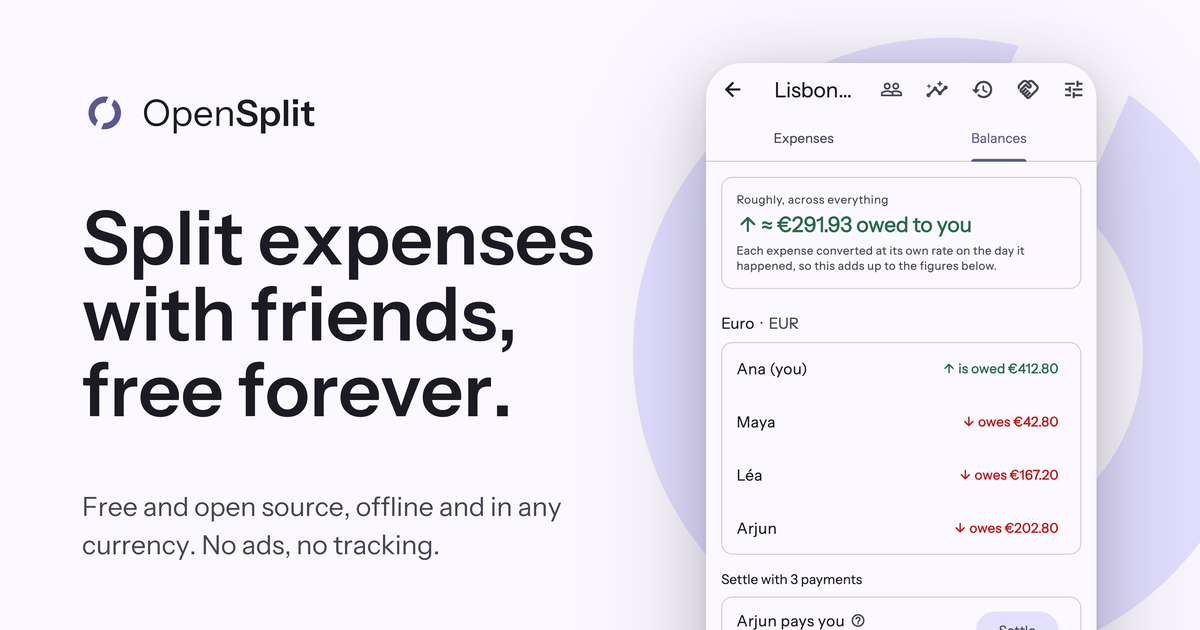
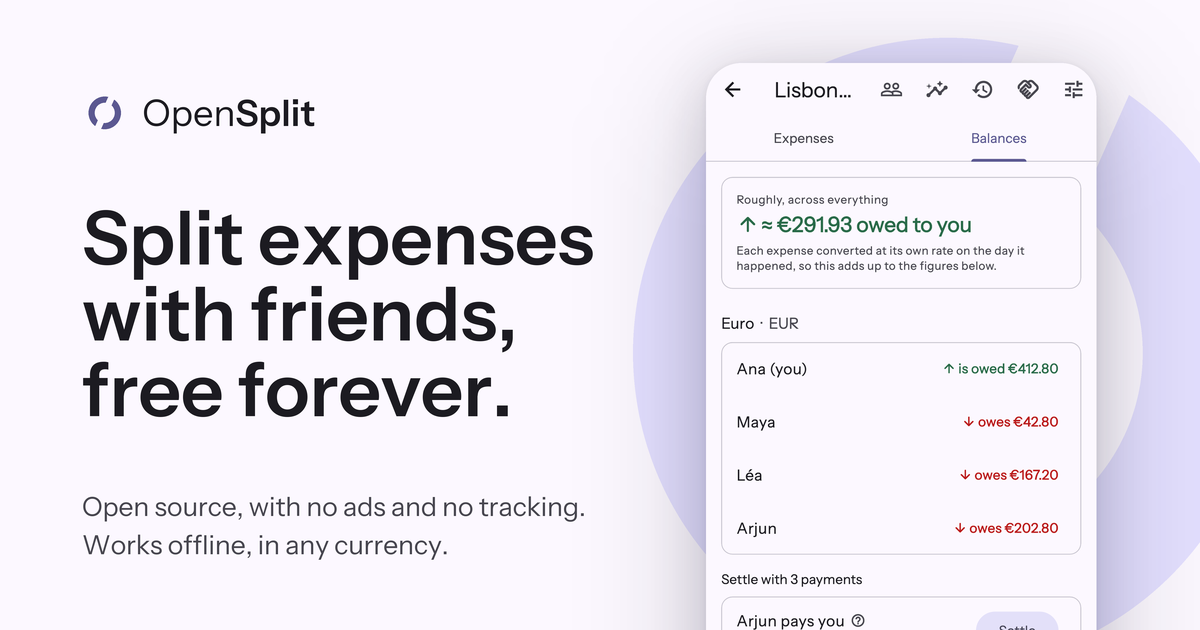
Say free, open source and no ads, without hedging
The principles carried a clause about charging for convenience "if
monetisation ever happens", and the landing page repeated it in the FAQ
and as a promise ("Paying might one day make something easier"). It read
as a plan to charge. OpenSplit is free, so the clause is gone and the
first principle says so outright: every feature, for everyone, forever.

Open source moves up to second and no ads to third, and both lead the
hero. The AGPL was described as "nobody can take the code", which is the
opposite of what it does: anyone can read, use, change and share it, and
what is built from it stays open. The landing page, PRINCIPLES.md, the
About and Settings screens and the terms now all say that. The terms'
"you are free to run your own" went with it, since it pointed at a
self-hosted server that does not exist.

The metadata, the manifest and the link preview follow, and the
architecture doc's reference to the leaving-with-everything principle
moves from #6 to #5.

Claude-Session: https://claude.ai/code/session_01Dr4xGagtWRkvz2i6gQdUsX

Changed region(s): [[0.0617, 0.7841, 0.4933, 0.9048]]

diff --git a/site/index.html b/site/index.html
@@ -15,7 +15,7 @@
     <meta charset="utf-8">
     <meta name="viewport" content="width=device-width, initial-scale=1">
     <title>OpenSplit · Free, open-source expense splitting</title>
-    <meta name="description" content="Split expenses with friends, flatmates and travel groups. OpenSplit is free and open source, works offline and in any currency, and never limits how many expenses you add. No ads, no tracking.">
+    <meta name="description" content="Split expenses with friends, flatmates and travel groups. OpenSplit is free and open source, with no ads and no limits, and works offline in any currency.">
     <link rel="canonical" href="https://opensplit.eigeninteractive.com/">
     <meta name="robots" content="index, follow">
     <meta name="google-site-verification" content="V8-KlfJsiOA_o2iDiaz0fDFYswSP1rm4F7X66q8WwnM">
@@ -24,7 +24,7 @@
     <meta property="og:site_name" content="OpenSplit">
     <meta property="og:locale" content="en">
     <meta property="og:title" content="OpenSplit · Free, open-source expense splitting">
-    <meta property="og:description" content="Split expenses with friends, free forever. Works offline, in any currency, with no ads and no tracking. The code is public.">
+    <meta property="og:description" content="Split expenses with friends, free forever. Open source, with no ads and no tracking. Works offline, in any currency.">
     <meta property="og:url" content="https://opensplit.eigeninteractive.com/">
     <meta property="og:image" content="https://opensplit.eigeninteractive.com/store/og-card.png">
     <meta property="og:image:type" content="image/png">
@@ -33,7 +33,7 @@
     <meta property="og:image:alt" content="OpenSplit: split expenses with friends, free forever. Beside it, the app showing a trip's balances.">
     <meta name="twitter:card" content="summary_large_image">
     <meta name="twitter:title" content="OpenSplit · Free, open-source expense splitting">
-    <meta name="twitter:description" content="Split expenses with friends, free forever. Works offline, in any currency, with no ads and no tracking.">
+    <meta name="twitter:description" content="Split expenses with friends, free forever. Open source, with no ads and no tracking. Works offline, in any currency.">
     <meta name="twitter:image" content="https://opensplit.eigeninteractive.com/store/og-card.png">
     <meta name="twitter:image:alt" content="OpenSplit: split expenses with friends, free forever. Beside it, the app showing a trip's balances.">
     <link rel="icon" type="image/svg+xml" href="/favicon.svg">
@@ -49,7 +49,7 @@
   "name": "OpenSplit",
   "applicationCategory": "FinanceApplication",
   "operatingSystem": "Android, Web",
-  "description": "Free, open-source expense splitting for friends, flatmates and trips. Works offline and in any currency.",
+  "description": "Free, open-source expense splitting for friends, flatmates and trips, with no ads. Works offline and in any currency.",
   "url": "https://opensplit.eigeninteractive.com/",
   "downloadUrl": "https://play.google.com/store/apps/details?id=com.eigeninteractive.opensplit",
   "license": "https://www.gnu.org/licenses/agpl-3.0.html",
@@ -67,7 +67,7 @@
       "name": "Is it really free?",
       "acceptedAnswer": {
         "@type": "Answer",
-        "text": "Yes. Adding an expense is never limited, and there are no ads. If OpenSplit ever charges for anything, it will be for convenience, like a hosted extra, and never for something the app does today."
+        "text": "Yes: every feature, for everyone, for good. There are no ads, no premium tier and no limit on how many expenses you add, and because the code is open source, you can check."
       }
     },
     {
@@ -83,7 +83,7 @@
       "name": "Who makes OpenSplit?",
       "acceptedAnswer": {
         "@type": "Answer",
-        "text": "EigenInteractive, without venture funding and in the open. The source is on GitHub under the AGPL-3.0, and bug reports and ideas are welcome there."
+        "text": "EigenInteractive, without venture funding and in the open. The code is on GitHub under the AGPL-3.0, for anyone to read, use and build on, and bug reports and ideas are welcome there."
       }
     }
   ]
@@ -565,14 +565,14 @@
         <div class="wrap hero-grid">
           <div class="hero-copy">
             <h1>Split expenses with friends, free forever.</h1>
-            <p class="hero-lede">OpenSplit keeps track of who paid, who owes whom and how to settle up, in any currency and with or without a signal. It's open source, it has no ads, and it never limits how many expenses you add.</p>
+            <p class="hero-lede">Open source, no ads, and every feature free for everyone. OpenSplit keeps track of who paid, who owes whom and how to settle up, in any currency and with or without a signal.</p>
             <div class="hero-actions">
               <a class="button button-filled" href="https://play.google.com/store/apps/details?id=com.eigeninteractive.opensplit"
                 ><svg aria-hidden="true"><use href="#play" /></svg>Get it on Google Play</a
               >
               <a class="button button-outlined" href="/app">Open the web app</a>
             </div>
-            <p class="hero-small">Licensed AGPL-3.0, with no analytics and no venture funding behind it.</p>
+            <p class="hero-small">The code is on <a href="https://github.com/eigeninteractive/opensplit">GitHub</a> under the AGPL-3.0.</p>
           </div>
           <div class="hero-visual">
             <svg class="hero-ring" viewBox="0 0 48 48" aria-hidden="true">
@@ -667,8 +667,12 @@
           </div>
           <ol>
             <li>
-              <h3>Logging an expense is never limited.</h3>
-              <p>No daily caps, no expense limits, no "you've used 3 of your 4 free entries". It stays free for everyone.</p>
+              <h3>Free for everyone, forever.</h3>
+              <p>Every feature, for everyone. No premium tier, no daily caps, no "you've used 3 of your 4 free entries".</p>
+            </li>
+            <li>
+              <h3>Open source.</h3>
+              <p>The code is public under the AGPL-3.0. Anyone can read it, use it, change it and share it, and what's built from it stays open too.</p>
             </li>
             <li>
               <h3>No ads, no analytics, no data sale.</h3>
@@ -677,14 +681,6 @@
             <li>
               <h3>No venture funding.</h3>
               <p>Money that demands growth is what turns a free app into a paywalled one. OpenSplit doesn't take it.</p>
-            </li>
-            <li>
-              <h3>Licensed AGPL-3.0.</h3>
-              <p>Nobody can take the code, close it, and run it as their own service. Changes to a hosted copy have to be shared.</p>
-            </li>
-            <li>
-              <h3>Paid only for convenience, if ever.</h3>
-              <p>Paying might one day make something easier. Not paying will never make anything impossible.</p>
             </li>
             <li>
               <h3>You can always leave with everything.</h3>
@@ -705,7 +701,7 @@
         <div>
           <details>
             <summary>Is it really free?</summary>
-            <p>Yes. Adding an expense is never limited, and there are no ads. If OpenSplit ever charges for anything, it will be for convenience, like a hosted extra, and never for something the app does today.</p>
+            <p>Yes: every feature, for everyone, for good. There are no ads, no premium tier and no limit on how many expenses you add, and because the code is open source, you can check.</p>
           </details>
           <details>
             <summary>Where does my data live?</summary>
@@ -713,7 +709,7 @@
           </details>
           <details>
             <summary>Who makes OpenSplit?</summary>
-            <p>EigenInteractive, without venture funding and in the open. The source is on <a href="https://github.com/eigeninteractive/opensplit">GitHub</a> under the AGPL-3.0, and bug reports and ideas are welcome there.</p>
+            <p>EigenInteractive, without venture funding and in the open. The code is on <a href="https://github.com/eigeninteractive/opensplit">GitHub</a> under the AGPL-3.0, for anyone to read, use and build on, and bug reports and ideas are welcome there.</p>
           </details>
         </div>
       </section>

diff --git a/web/index.html b/web/index.html
@@ -5,7 +5,7 @@
 
     <meta charset="UTF-8">
     <meta name="viewport" content="width=device-width, initial-scale=1, viewport-fit=cover">
-    <meta name="description" content="Split expenses with friends. Free forever, no ads, works offline, open source.">
+    <meta name="description" content="Split expenses with friends. Free forever, open source, no ads, works offline.">
 
     <!-- ColorScheme.surface, the colour the app bar and the page both sit on.
        Anything else here shows as a seam between the browser chrome and the
@@ -44,7 +44,7 @@
     <meta property="og:type" content="website">
     <meta property="og:site_name" content="OpenSplit">
     <meta property="og:title" content="OpenSplit · Free, open-source expense splitting">
-    <meta property="og:description" content="Split expenses with friends, free forever. Works offline, in any currency, with no ads and no tracking. The code is public.">
+    <meta property="og:description" content="Split expenses with friends, free forever. Open source, with no ads and no tracking. Works offline, in any currency.">
     <meta property="og:url" content="https://opensplit.eigeninteractive.com/">
     <meta property="og:image" content="https://opensplit.eigeninteractive.com/store/og-card.png">
     <meta property="og:image:type" content="image/png">
@@ -53,7 +53,7 @@
     <meta property="og:image:alt" content="OpenSplit: split expenses with friends, free forever. Beside it, the app showing a trip's balances.">
     <meta name="twitter:card" content="summary_large_image">
     <meta name="twitter:title" content="OpenSplit · Free, open-source expense splitting">
-    <meta name="twitter:description" content="Split expenses with friends, free forever. Works offline, in any currency, with no ads and no tracking.">
+    <meta name="twitter:description" content="Split expenses with friends, free forever. Open source, with no ads and no tracking. Works offline, in any currency.">
     <meta name="twitter:image" content="https://opensplit.eigeninteractive.com/store/og-card.png">
     <meta name="twitter:image:alt" content="OpenSplit: split expenses with friends, free forever. Beside it, the app showing a trip's balances.">
 

diff --git a/lib/presentation/screens/about_screen.dart b/lib/presentation/screens/about_screen.dart
@@ -60,8 +60,8 @@ class AboutScreen extends StatelessWidget {
               icon: Icons.balance_outlined,
               title: 'Licence — AGPL-3.0',
               subtitle:
-                  'Chosen so a proprietary fork cannot take this work, close '
-                  'it, and outcompete the project it came from.',
+                  'Anyone can use, change and share the code, and what is '
+                  'built from it stays open source too.',
               url: licenseUrl,
             ),
 
@@ -84,8 +84,8 @@ class AboutScreen extends StatelessWidget {
 
             const Divider(height: 40),
             Text(
-              'No ads, no analytics SDK, no venture funding, and logging an '
-              'expense is never gated. Those are commitments rather than '
+              'Free for everyone, open source, with no ads, no analytics SDK '
+              'and no venture funding. Those are commitments rather than '
               'features — they are written down in the repository so they can '
               'be held against us.',
               style: theme.textTheme.bodySmall?.copyWith(

diff --git a/site/terms.html b/site/terms.html
@@ -76,7 +76,7 @@
 
     <main id="main" class="doc">
       <h1>Terms of Service</h1>
-      <p class="updated">Last updated 27 September 2026</p>
+      <p class="updated">Last updated 1 October 2026</p>
 
       <p>By using OpenSplit you agree to these terms. They are short on purpose.</p>
 
@@ -113,7 +113,7 @@
       <p>We may suspend or remove an account that is being used to attack the service or to harm other people using it.</p>
 
       <h2>Open source</h2>
-      <p>OpenSplit is released under the GNU Affero General Public License v3. Those terms cover the software; these terms cover the hosted service we run. You are free to run your own.</p>
+      <p>OpenSplit is released under the GNU Affero General Public License v3. Those terms cover the software, which anyone may use, study, change and share; these terms cover the hosted service we run.</p>
 
       <h2>Changes</h2>
       <p>We may update these terms. If a change is material we will update the date above and say so in the app before it takes effect.</p>

diff --git a/lib/presentation/screens/settings_screen.dart b/lib/presentation/screens/settings_screen.dart
@@ -53,8 +53,8 @@ class _SettingsScreenState extends ConsumerState<SettingsScreen> {
               leading: Icon(Icons.favorite_outline),
               title: Text('Free forever'),
               subtitle: Text(
-                'Logging an expense is never gated, there are no ads, and no '
-                'analytics SDK is present in this app.',
+                'Every feature is free for everyone. The app is open source, '
+                'has no ads, and has no analytics SDK.',
               ),
               isThreeLine: true,
             ),

diff --git a/tool/store_graphics.py b/tool/store_graphics.py
@@ -150,8 +150,8 @@ def build():
         'margin': 0.13, 'wordmark': 0.058, 'wordmark_y': 0.20,
         'headline': 0.118, 'headline_y': 0.42,
         'body': 0.042,
-        'lines': ['Free and open source, offline and in any',
-                  'currency. No ads, no tracking.'],
+        'lines': ['Open source, with no ads and no tracking.',
+                  'Works offline, in any currency.'],
     })
     og.save('site/store/og-card.png', optimize=True)
 
@@ -163,7 +163,7 @@ def build():
         'margin': 0.13, 'wordmark': 0.062, 'wordmark_y': 0.21,
         'headline': 0.122, 'headline_y': 0.44,
         'body': 0.044,
-        'lines': ['Free and open source. No ads, no tracking.'],
+        'lines': ['Open source. No ads, no tracking.'],
     })
     play.save('site/store/feature-graphic.jpg', quality=92, optimize=True)
 

diff --git a/PRINCIPLES.md b/PRINCIPLES.md
@@ -3,41 +3,34 @@
 These are commitments, not aspirations. They are published here so that they
 can be held against us.
 
-### 1. Never gate the act of logging an expense
+### 1. Free for everyone, forever
 
-No daily caps, no expense limits, no interstitials, no "you've used 3 of your
-4 free entries this month". Recording what you spent is the entire function of
-this app, and it stays free for everyone forever. This is the specific friction
-that cost the incumbent its goodwill, and it is the first thing anyone
-monetising an app like this reaches for.
+Every feature, for everyone. No premium tier, no daily caps, no expense limits,
+no interstitials, no "you've used 3 of your 4 free entries this month".
+Recording what you spent is the entire function of this app, and gating it is
+the specific friction that cost the incumbent its goodwill.
 
-### 2. No ads. No analytics SDKs. No data sale. Ever.
+### 2. Open source
+
+The code is public under the AGPL-3.0. Anyone can read it, use it, change it
+and share it. What is built from it stays open source too: if you run a
+modified OpenSplit as a service, your users get your changes.
+
+### 3. No ads. No analytics SDKs. No data sale. Ever.
 
 There is no third-party analytics SDK in the app and there never will be.
 Product metrics come from aggregate database counts — how many groups exist —
 never from watching what you do. Your expense history describes where you go,
 who you go with, and what you can afford. It is not a dataset.
 
-### 3. No venture funding
+### 4. No venture funding
 
 Splitwise did not paywall because its founders turned bad. It took money that
 mandated growth, growth mandated revenue, and revenue mandated extraction. The
 structure produced the outcome. Refusing that structure is the actual defence
 here; every other principle on this page is downstream of it.
 
-### 4. AGPL-3.0
-
-Chosen specifically so that a proprietary hosted fork cannot take this work,
-close it, and outcompete the project it came from. If you run a modified
-OpenSplit as a service, your users get your changes.
-
-### 5. If monetisation ever happens, charge for convenience, never for function
-
-A hosted tier, a one-time purchase, sponsorship — all legitimate. A feature
-gate is not. The test is simple: does paying make something *easier*, or does
-not paying make something *impossible*? Only the first is allowed.
-
-### 6. You can always leave, and take everything with you
+### 5. You can always leave, and take everything with you
 
 The journal is yours and it is already on your device: plain SQLite, exported to
 CSV whenever you ask. The backend stores rows and enforces one invariant; every
@@ -49,7 +42,7 @@ The backend itself runs on Cloudflare Durable Objects, D1 and KV, which you
 cannot run yourself. There is no self-host path and we will not imply one with a
 portability layer nobody tests.
 
-### 7. The app survives this project being abandoned
+### 6. The app survives this project being abandoned
 
 Your data lives on your device in a plain SQLite database. If the servers
 disappear tomorrow, the app keeps working with what it has, and you can export

diff --git a/docs/architecture.md b/docs/architecture.md
@@ -372,7 +372,7 @@ No queue in front of push, no WebSocket, no server-side balances view, no
 cross-object aggregation, and no portability seam.
 
 The last one is a commitment rather than an omission: the object is written in
-the shape the platform wants, and PRINCIPLES.md #6 states the consequence
+the shape the platform wants, and PRINCIPLES.md #5 states the consequence
 rather than implying a self-host path.
 
 The one storage rule that governs everything else: derive from the ledger on

diff --git a/README.md b/README.md
@@ -1,6 +1,6 @@
 # OpenSplit
 
-Split expenses with friends. Free forever, no ads, works offline, open source.
+Split expenses with friends. Free forever, open source, no ads, works offline.
 
 OpenSplit is a local-first expense splitter for Android and the web. It exists
 because every alternative either paywalls the act of logging an expense or has
